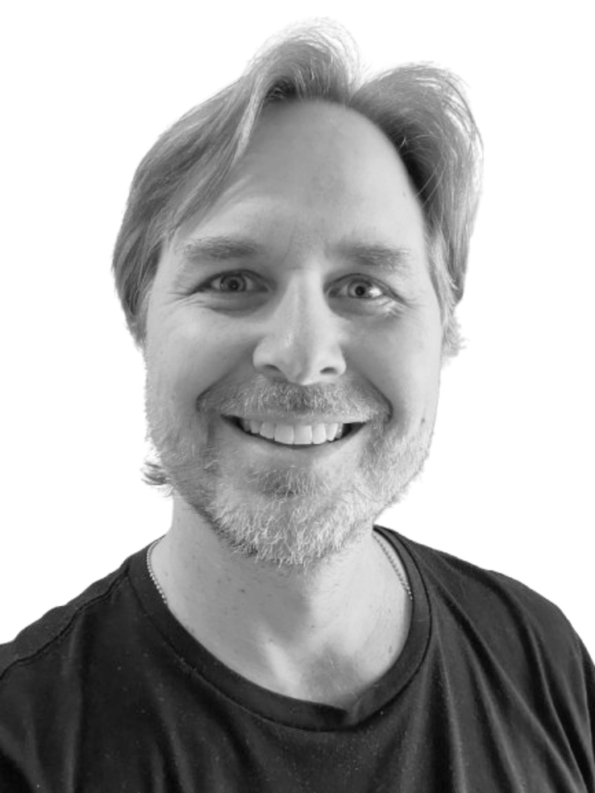
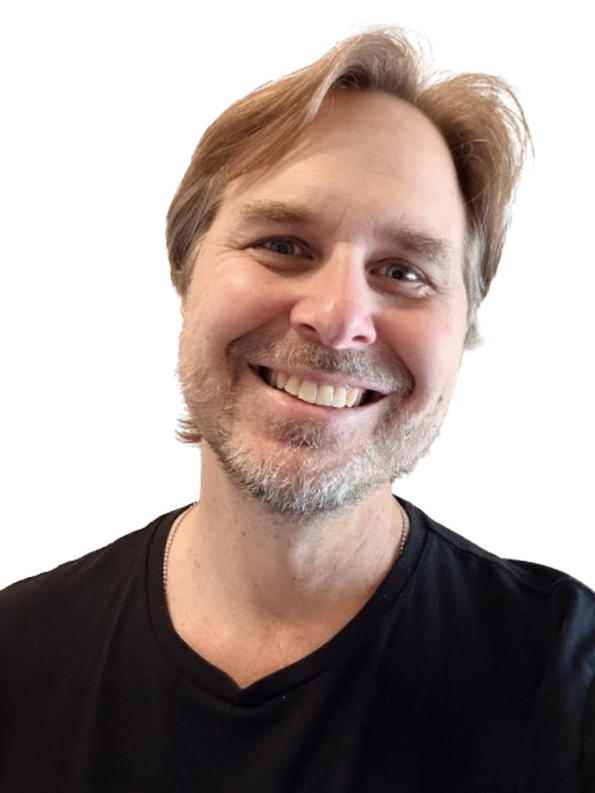
Swap the photography to colour, which closes the last cold spot
The light theme made the black-and-white portraits worse, not better: an
opaque B&W photo with a dark background punched a black rectangle through the
warm canvas. These are the colour replacements.

- site/home-hero.jpg + -400: the colour portrait against a cream wall. The
  wall sits close enough to #FBF8F3 that the photo reads as part of the page
  instead of a hole in it, and it still reads well on the dark theme.
- site/home-headshot.png + -520 + -96 and site/author-headshot.png + -240:
  regenerated from the transparent colour cutout, so the round avatar in the
  "In short" box and the author box are a face rather than a grey shape.
- site/about-family.jpg + -700: the same family portrait already on the About
  page, in colour. No new subjects, just the colour original of a photo that
  was already published.

Alt text no longer describes photographs as black and white, and now
describes what is actually in frame. Comments and README updated to match.

Only the small derivatives are loaded in-page (52K, 14K, 40K); the full-size
files remain schema-only images, as before.

Still dark and off-brand for the new palette: site/og-default.png and the
per-post og:image PNGs. Those are share images where a dark rendering is
defensible, but og-default.png has no vector source, so regenerating it needs
a human.

Claude-Session: https://claude.ai/code/session_0197cKDud6XHvafFY34bwMD4

diff --git a/dist/index.html b/dist/index.html
@@ -63,7 +63,7 @@
       <p class="promise">Read for a month and you'll know how to ask for the cash price on a medical bill, plug the leaks in your paycheck, and build your first $1,000 cushion. Almost nobody teaches this, because almost nobody gets paid to.</p>
       </div>
       <figure class="hero-photo"><img src="/about/david-dewese-hero-400.jpg" srcset="/about/david-dewese-hero-400.jpg 400w, /about/david-dewese-hero.jpg 659w"
-        sizes="(max-width:820px) 11rem, 16rem" alt="David Dewese, smiling, in a black and white headshot." width="659" height="850" fetchpriority="high">
+        sizes="(max-width:820px) 11rem, 16rem" alt="David Dewese smiling at the camera, in a black t-shirt against a warm cream wall." width="659" height="850" fetchpriority="high">
         <figcaption>Hi, I&#x27;m David!</figcaption></figure>
     </div></section><section class="featured"><div class="wrap"><h2 class="section-title">New here? Pick a topic</h2><div class="tiles"><div class="tile"><span class="count">Money &middot; 9 posts</span><h3><a href="/money/">Money for Normal People</a></h3><p>Why you feel broke on a decent income, where it leaks out, and small moves that actually help.</p><p class="start"><span>Start with</span> <a href="/p/why-you-feel-broke-on-a-good-income/">Why You Feel Broke on a Good Income</a></p></div><div class="tile"><span class="count">Health &middot; 31 posts</span><h3><a href="/health/">Health Insurance, Medical Bills, and Health Sharing</a></h3><p>Why medical bills surprise you, how to pay less for care, and an honest look at health sharing.</p><p class="start"><span>Start with</span> <a href="/p/nobody-gets-paid-to-make-you-well/">Nobody Gets Paid to Make You Well</a></p></div><div class="tile"><span class="count">Bitcoin &middot; 12 posts</span><h3><a href="/bitcoin/">Bitcoin and the Dollar, Explained Calmly</a></h3><p>Why the dollar loses value and where bitcoin fits as savings, not gambling.</p><p class="start"><span>Start with</span> <a href="/p/is-bitcoin-saving-or-gambling/">Saving vs. Gambling: Where Bitcoin Actually Fits</a></p></div></div></div></section><section class="list"><div class="wrap"><h2 class="section-title">Latest posts</h2><a class="post-card" href="/p/dental-and-vision-without-insurance/">
           <div class="meta"><span class="tag">Health</span><span>September 21, 2026</span><span>3 min read</span></div>

diff --git a/dist/about/index.html b/dist/about/index.html
@@ -79,7 +79,7 @@
       </div>
       <figure class="about-photo">
         <img src="family.jpg" srcset="family-700.jpg 700w, family.jpg 1400w" sizes="(max-width:820px) 20rem, 21rem"
-             alt="Black and white photo of David Dewese kneeling with his wife and two daughters, everyone laughing, in front of giant paper letters." width="1400" height="1750" loading="eager">
+             alt="David Dewese kneeling with his wife and their two daughters, all four laughing, in front of giant fringed paper letters in bright colours." width="1400" height="1750" loading="eager">
         <figcaption>The whole reason I do the homework.</figcaption>
       </figure>
     </div></section>

diff --git a/build.py b/build.py
@@ -1633,19 +1633,19 @@ def render_page(title, md_body, slug, description, figure="", page_class="", og_
                   page_title=page_title, extra_head=extra_head)
 
 
-# About page photo: black-and-white family portrait, 4:5, two sizes for srcset.
+# About page photo: colour family portrait, 4:5, two sizes for srcset.
 ABOUT_PHOTO = SITE_DIR / "about-family.jpg"          # 1400x1750
 ABOUT_PHOTO_SM = SITE_DIR / "about-family-700.jpg"   # 700x875
-AUTHOR_HEADSHOT = SITE_DIR / "author-headshot.png"        # transparent B&W cutout, 595x793 (Person schema image)
+AUTHOR_HEADSHOT = SITE_DIR / "author-headshot.png"        # transparent colour cutout, 595x793 (Person schema image)
 AUTHOR_HEADSHOT_SM = SITE_DIR / "author-headshot-240.png"  # 180x240 copy for the round author-box avatar
-HOME_HEADSHOT = SITE_DIR / "home-headshot.png"            # 850x850 round B&W headshot, Person schema image
+HOME_HEADSHOT = SITE_DIR / "home-headshot.png"            # 850x850 round colour headshot, Person schema image
 HOME_HEADSHOT_XS = SITE_DIR / "home-headshot-96.png"      # 96x96 copy for the tiny avatar beside "In short"
-HOME_HERO = SITE_DIR / "home-hero.jpg"                    # 659x850 B&W portrait, homepage hero
+HOME_HERO = SITE_DIR / "home-hero.jpg"                    # 659x850 colour portrait, homepage hero
 HOME_HERO_SM = SITE_DIR / "home-hero-400.jpg"             # 400x516 copy for the hero at 1x/2x
-HOME_HEADSHOT_ALT = "David Dewese, smiling, in a black and white headshot."
+HOME_HEADSHOT_ALT = "David Dewese smiling at the camera, in a black t-shirt against a warm cream wall."
 HOME_HEADSHOT_CAPTION = "Hi, I'm David!"
-ABOUT_PHOTO_ALT = ("Black and white photo of David Dewese kneeling with his wife and two "
-                   "daughters, everyone laughing, in front of giant paper letters.")
+ABOUT_PHOTO_ALT = ("David Dewese kneeling with his wife and their two daughters, all four "
+                   "laughing, in front of giant fringed paper letters in bright colours.")
 ABOUT_PHOTO_CAPTION = "The whole reason I do the homework."
 
 

diff --git a/README.md b/README.md
@@ -25,12 +25,15 @@ posts are plain files, the site is generated by one Python script, and a free ho
   `dist/assets/` on every build. The header uses the full lockup; the icon is the favicon.
   To change the logo, replace the SVGs in `brand/logo/` and rebuild.
 - **About page photo:** `site/about-family.jpg` (1400x1750) and `site/about-family-700.jpg`
-  are the black-and-white family portrait, copied to `dist/about/` on build. To swap it,
+  are the **colour** family portrait, copied to `dist/about/` on build. To swap it,
   replace both files (4:5 crop) and rebuild; caption and alt text live in `build.py`.
-  `site/author-headshot.png` (transparent black-and-white cutout) is the round avatar in the
+  `site/author-headshot.png` (transparent **colour** cutout) is the round avatar in the
   author box under every post; it is served at `/about/david-dewese.png`. `site/home-headshot.png`
-  (850x850 round black-and-white portrait) sits to the right of the homepage intro and is the
-  Person schema image, served at `/about/david-dewese-round.png`.
+  (850x850 round **colour** portrait) sits to the right of the homepage intro and is the
+  Person schema image, served at `/about/david-dewese-round.png`. `site/home-hero.jpg`
+  (659x850 **colour** portrait) plus its 400x516 twin are the homepage hero.
+  These went from black-and-white to colour in V2: on the warm light canvas a B&W portrait
+  with a dark background reads as a black rectangle, which was the coldest thing on the page.
 - **Resources page:** `site/resources.md` is the copy for `/resources/` (in the main nav) —
   the tools David actually pays for and uses, the free guides, and where paid digital
   products will go. Referral links are disclosed inline, next to each link.
